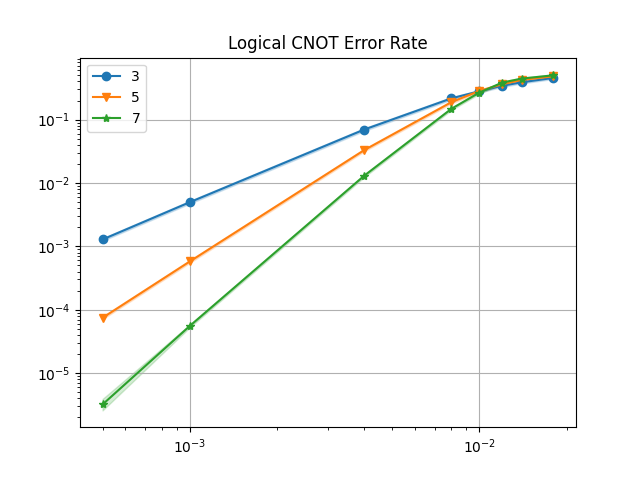
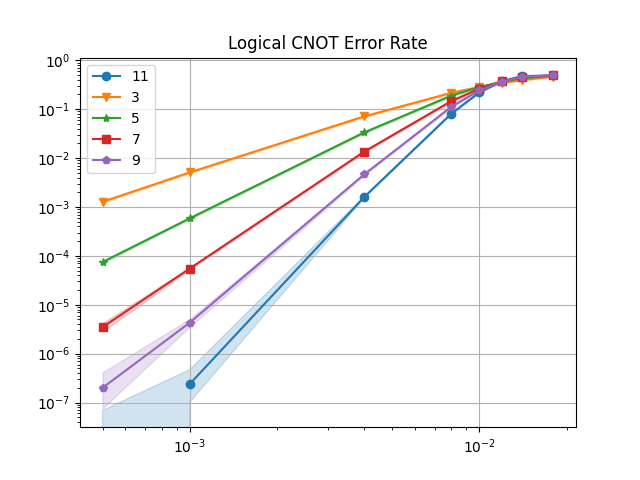
Simulate bigger (up to `k = 5`) logical CNOT (#332)
This PR parallelize the circuit generation in `logical_cnot.py` (was
sequential, but taking too much time for `k = 5`) and update the logical
CNOT simulation to go up to distance 11.

diff --git a/examples/logical_cnot.py b/examples/logical_cnot.py
@@ -1,19 +1,21 @@
 """This is an example of compiling a logical CNOT `.dae` model to
 `stim.Circuit`."""
 
+import itertools
+from concurrent.futures import ProcessPoolExecutor
 from pathlib import Path
 from typing import Iterable
 
 import matplotlib.pyplot as plt
-import stim
 import sinter
+import stim
 
 from tqec import (
     BlockGraph,
-    compile_block_graph,
-    annotate_detectors_automatically,
-    ZXGraph,
     Position3D,
+    ZXGraph,
+    annotate_detectors_automatically,
+    compile_block_graph,
 )
 from tqec.compile.compile import CompiledGraph
 from tqec.noise_models import (
@@ -70,6 +72,16 @@ def generate_stim_circuit(
     return annotate_detectors_automatically(circuit_without_detectors)
 
 
+def get_sinter_task(
+    compiled_graph: CompiledGraph, tup: tuple[int, float]
+) -> sinter.Task:
+    k, p = tup
+    return sinter.Task(
+        circuit=generate_stim_circuit(compiled_graph, k, p),
+        json_metadata={"d": 2 * k + 1, "r": 2 * k + 1, "p": p},
+    )
+
+
 def main() -> None:
     # 1 Create `BlockGraph` representing the computation
     block_graph = create_block_graph(from_scratch=False)
@@ -84,17 +96,22 @@ def main() -> None:
         observables=[observables[1]],
     )
 
+    _MAX_WORKERS: int = 16
+
     # 4. Generate `stim.Circuit`s from the compiled graph and run the simulation
     def gen_tasks() -> Iterable[sinter.Task]:
-        for k in range(1, 4):  # d=3,5,7
-            for p in [0.0005, 0.001, 0.004, 0.008, 0.01, 0.012, 0.014, 0.018]:
-                yield sinter.Task(
-                    circuit=generate_stim_circuit(compiled_graph, k, p),
-                    json_metadata={"d": 2 * k + 1, "r": 2 * k + 1, "p": p},
-                )
+        with ProcessPoolExecutor(max_workers=_MAX_WORKERS) as p:
+            yield from p.map(
+                get_sinter_task,
+                itertools.repeat(compiled_graph),
+                itertools.product(
+                    range(1, 6),
+                    [0.0005, 0.001, 0.004, 0.008, 0.01, 0.012, 0.014, 0.018],
+                ),
+            )
 
     stats = sinter.collect(
-        num_workers=16,
+        num_workers=_MAX_WORKERS,
         tasks=gen_tasks(),
         max_errors=5000,
         max_shots=100_000_000,
